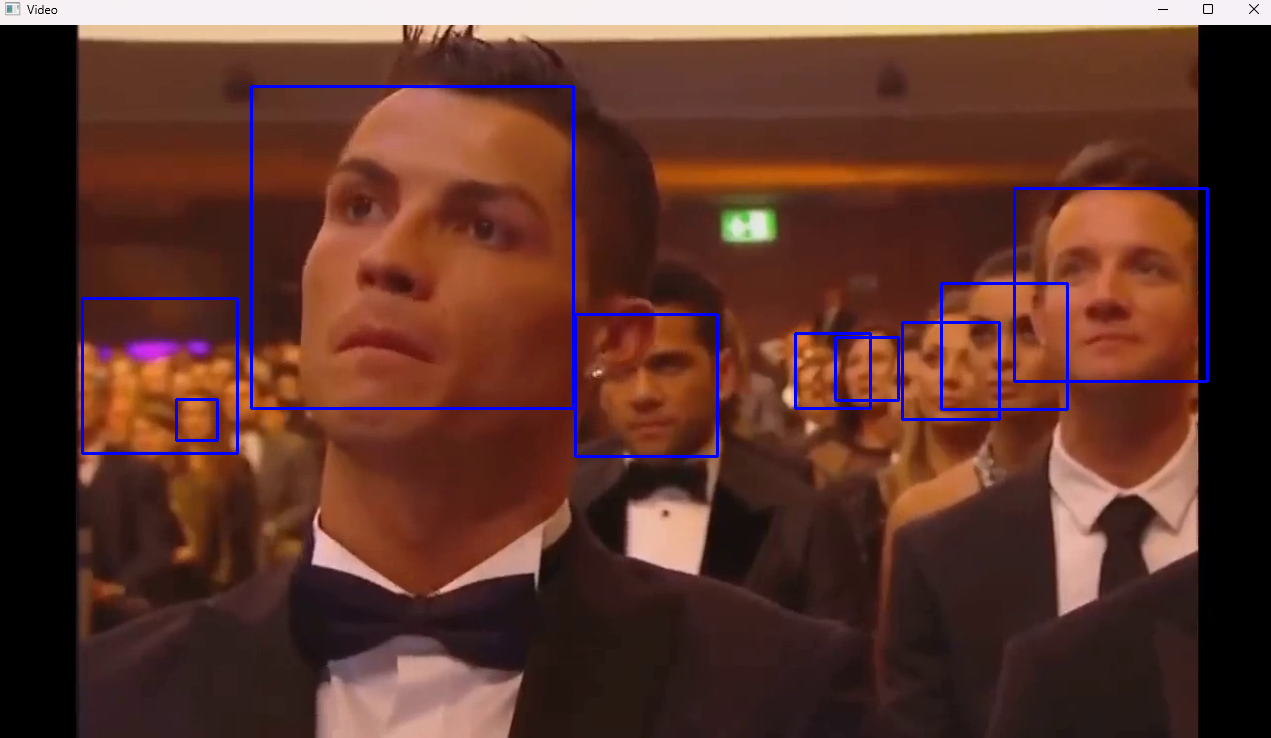
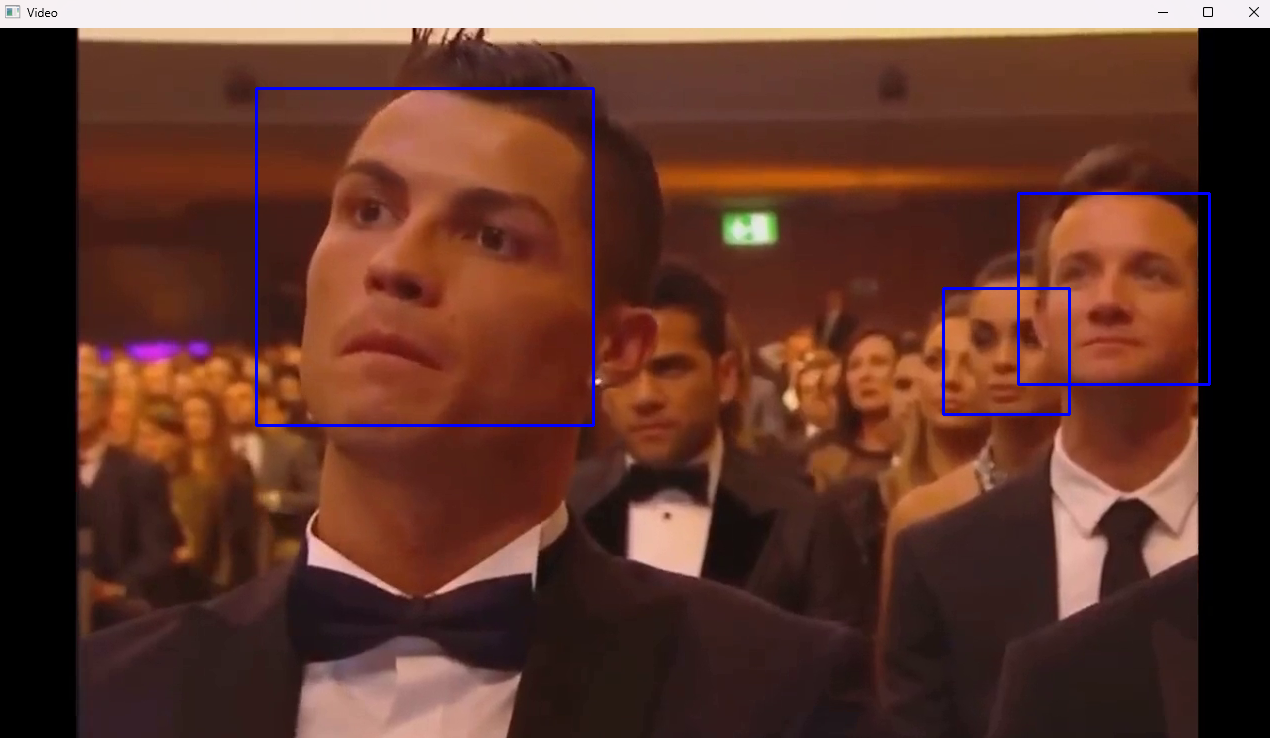
fix: pequenos ajustes e readme

diff --git a/prova_sem_9/haar.py b/prova_sem_9/haar.py
@@ -17,8 +17,8 @@ while True:
     # Converter o frame para escala de cinza
     gray = cv2.cvtColor(frame, cv2.COLOR_BGR2GRAY)
     
-    # Detectar rostos
-    faces = face_cascade.detectMultiScale(gray, scaleFactor=1.1, minNeighbors=5, minSize=(30, 30))
+    # Detectar rostos (a função detectMultiScale foi ajustada detalhadamente para que a detecção evite apresentar falsos positivos)
+    faces = face_cascade.detectMultiScale(gray, scaleFactor=1.1, minNeighbors=15, minSize=(90, 30))
     
     # Desenhar retângulos em torno dos rostos detectados
     for (x, y, w, h) in faces:

diff --git a/prova_sem_9/readme.md b/prova_sem_9/readme.md
@@ -1,4 +1,4 @@
-# Prova 1 - Luiz Fernando Leão
+# Prova 2 - Luiz Fernando Leão
 
 ## Objetivo
 
@@ -24,13 +24,13 @@
 
 &emsp;Por se tratar de detalhes mais avançados sobre detecção de faces, a detecção de emoções faciais humanas deve ser mais apropriada para ser implementada utilizando métodos mais sofisticados, como o CNN, em primeiro lugar, e NN Linear em seguindo, pois são capazes de fazer detecções mais precisas, e num caso em que a detecção possui detalhes mais avançados, pode ser mais benéfico optar por métodos mais robustos, que podem não ser rápidos e eficientes, mas apresentam respostas precisas. 
 
-&emsp;A terceira alternativa é o HAAR Cascade, pois com um bom classificador pré-treinado, ela pode ser uma boa opção, e por último, os filtros de correlação cruzada
+&emsp;A terceira alternativa é o HAAR Cascade, pois com um bom classificador pré-treinado, ela pode ser uma boa opção, e por último, os filtros de correlação cruzada.
 
 ### 2.4
 
 &emsp;A solução apresentada não possui a capacidade de considerar variações de um frame para outros, pois a solução é treinada previamente, e quando esta no processo de identificações de rostos humanos, ela faz a análise entre os frames e retorna os resultados, mas sem considerar o que ocorreu em frames anteriores. 
 
-&emsp;Para que isso seja possível, é preciso configurar a solução para ser capaz considerar os frames anteriores para fazer novas detecções durante o processo de análise das expressões faciais de humanos num vídeo, por exemplo. Assim, deve-se utilizar modelos robustos no contexto das redes neurais, como por exemplo os MLPs (Multi-layer perceptrons), para que seja possível fazer uma solução em que os frames anteriores interferem no resultados dos frames seguintes
+&emsp;Para que isso seja possível, é preciso configurar a solução para ser capaz considerar os frames anteriores para fazer novas detecções durante o processo de análise das expressões faciais de humanos num vídeo, por exemplo. Assim, deve-se utilizar modelos robustos no contexto das redes neurais, como por exemplo os MLPs (Multi-layer perceptrons), para que seja possível fazer uma solução em que os frames anteriores interferem no resultados dos frames seguintes.
 
 ### 2.5
 
@@ -69,8 +69,11 @@
 
 ## Demonstração
 
-&emsp;Para demonstrar o funcionamento do sistema de detecção de rostos, segue abaixo um print do momento em que rostos foram detectados no vídeo:
+&emsp;Para demonstrar o funcionamento do sistema de detecção de rostos, segue abaixo prints dos momentos em que rostos foram detectados no vídeo:
+
+![Demonstração](../prova_sem_9/demonstracao2.png)
 
 ![Demonstração](../prova_sem_9/demonstracao.png)
 
-&emsp;Neste print, é possível ver um retângulo em torno dos rostos no vídeo, o que demonstra o funcionamento do sistema de detecção de faces
+
+&emsp;Nestes prints, é possível ver um retângulo em torno dos rostos no vídeo, o que demonstra o funcionamento do sistema de detecção de faces. Além disso, o código foi otimizado para que evite falsos positivos, ou seja, a presença do retângulo em lugares que não são faces humanas.
